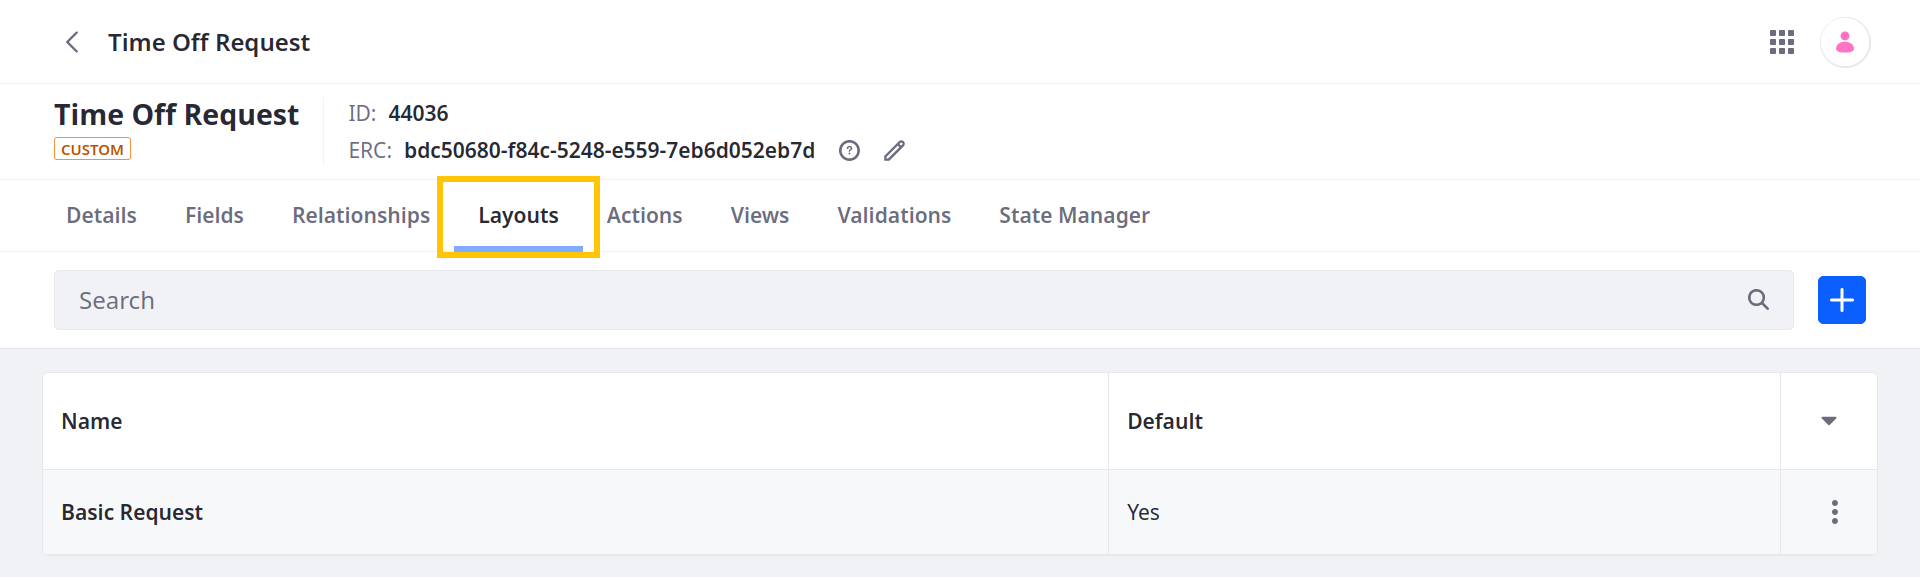
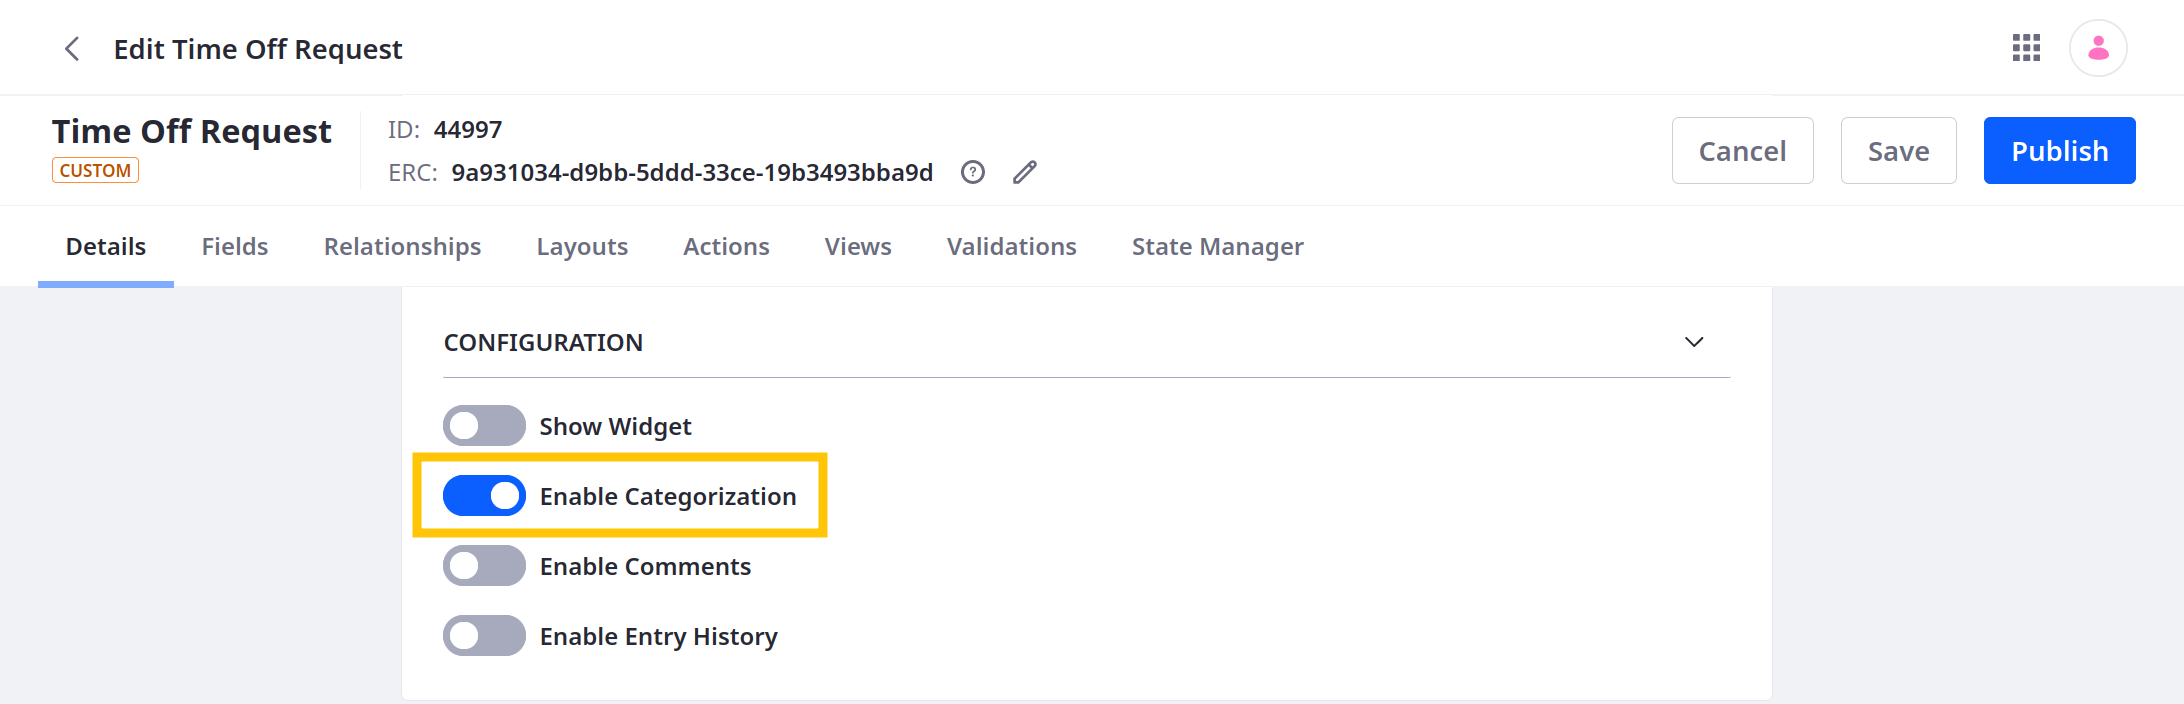
LRDOCS-11245 updates categorization article and img

diff --git a/docs/dxp/latest/en/building-applications/objects/creating-and-managing-objects/layouts/adding-categorization-to-fields-tabs.md b/docs/dxp/latest/en/building-applications/objects/creating-and-managing-objects/layouts/adding-categorization-to-fields-tabs.md
@@ -12,9 +12,11 @@ You can add categorization blocks to [fields tabs](./designing-object-layouts.md
    System objects do not support custom layouts. See [Extending System Objects](../extending-system-objects.md) for more information.
    ```
 
-1. Go to the *Layouts* tab and select the desired layout.
+1. In the Details tab, enable categorization and click *Save*.
 
-   ![Go to the Layouts tab and select the desired layout.](./adding-categorization-to-fields-tabs/images/01.png)
+   ![Enable categorization.](./adding-categorization-to-fields-tabs/images/01.png)
+
+1. Go to the *Layouts* tab and select the desired layout.
 
 1. Go to the *Layout* tab, click the *Actions* button (![Actions Button](../../../../images/icon-actions.png)) for the desired [Fields tab](./designing-object-layouts.md#fields-tabs), and select *Add Categorization*.
 
@@ -44,4 +46,4 @@ Visibility and permissions can affect how the categorization block appears.
 
 * [Creating Objects](../creating-objects.md)
 * [Designing Object Layouts](./designing-object-layouts.md)
-* [Designing Object Views](../views/designing-object-views.md)
+* [Adding Comments to Fields Tabs](./adding-comments-to-fields-tabs.md)
